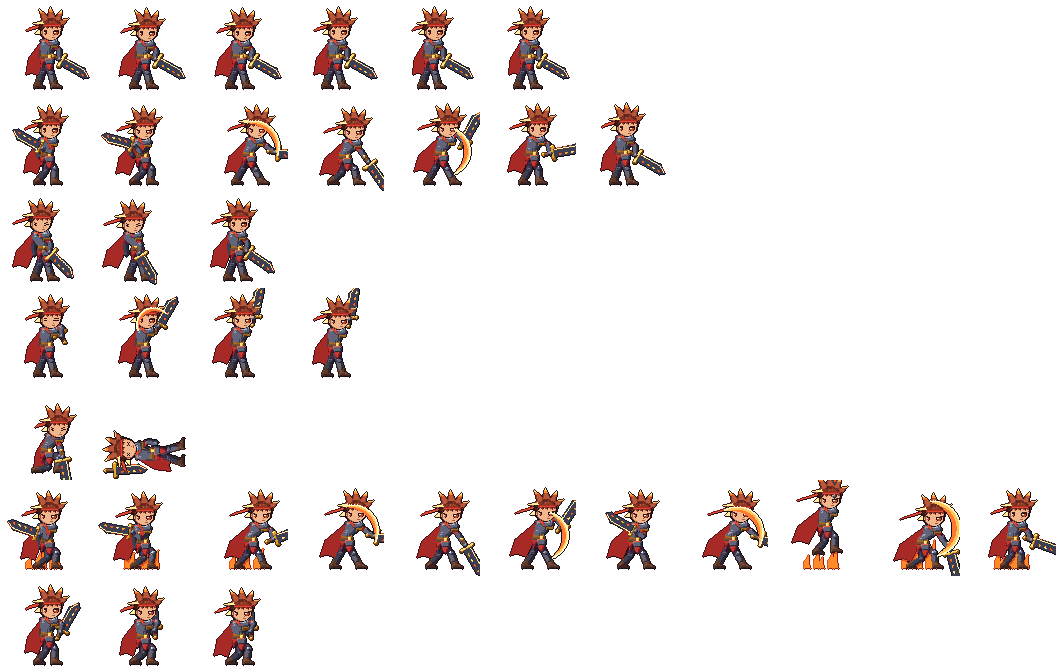
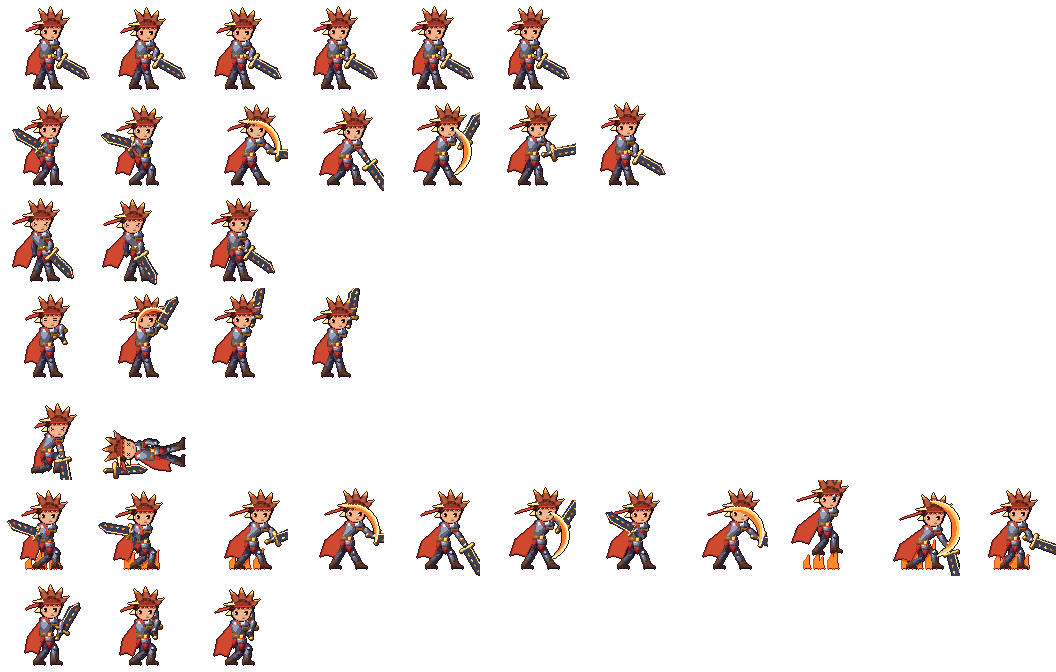
Kael: matching eyes, calmer shaded face, analytic cylinder/sphere form shading
Claude-Session: https://claude.ai/code/session_018FD9XXPN18zgpdgkPrG4jT

diff --git a/tools/art_kael.py b/tools/art_kael.py
@@ -48,42 +48,43 @@ def armour():
 
 
 # ------------------------------------------------------------------ hand-pixelled face (3/4 toward the viewer)
-FACE = [   # headband + bangs + face; chin is row 16, col 12
+FACE = [   # headband + bangs + face; chin is row 16, col 12. Light from the upper left.
     ".ohhhHrrrrrrrrrrrrrrrrrro",
     "ohhhhrRRRRRRRRRRRRRRRRdo.",
     ".ohhhHdHHddHHdddHHdddHHo.",
     "ohhhHoHSHHoSHHoSSHHoSHHo.",
-    ".ohhhoSSSHSSSSHSSSSHSSSo.",
-    "..ohhSSSSSSSSSSSSSSSSSso.",
-    "..ohsSbbbSSSSSSSbbbbbSSo.",
-    "..oKsSeeeSSSSSSeeeeeeSo..",
-    "..oKsSwieSSSSSSewwiieSo..",
-    "..oSsSiieSSSSSSeiiiieSo..",
-    "...osSSeSSSSSSSSeiieSSo..",
-    "...osSSSSSSSSSSsSSSSSo...",
-    "....osSSSSSSSSSSSSSSo....",
-    ".....osSSSSSSSmmmSSo.....",
-    "......ossSSSSSSSSSo......",
-    "........ossSSSSSo........",
+    ".ohhhosssHsssssHssssHsso.",     # the bangs cast a shadow across the forehead
+    "..ohhKKSSSSSSSSSSSSSSSso.",
+    "..ohsKbbbSSSSSSbbbbSSso..",     # brows
+    "..oKsKeeeSSSSSSeeeeSSso..",     # eyes: same design; the near eye shows one more column of white
+    "..oKsSwkeSSSSSSWwkeSso...",
+    "..oSsSikiSSSSSSWikiSso...",
+    "...osSsIsSSSSSSssIsSso...",
+    "...osSSSSSSSSsSSSSSso....",     # nose shade
+    "....osSSSSSSSSssSSSso....",
+    ".....osSSSSSSmmmSSso.....",
+    "......ossSSSSSSSSso......",
+    "........ossssssso........",
     "..........ooooo..........",
 ]
 EXPR = {   # replacement rows 6..10 (brows + eyes)
-    'fierce': ["..ohsbbSSSSSSSSSSSSbbbbo.", "..oKsSbeeSSSSSSeeeebbSo..", "..oKsSwieSSSSSSewwiieSo..",
-               "..oSsSiieSSSSSSeiiiieSo..", "...osSSeSSSSSSSSeiieSSo.."],
-    'closed': ["..ohsSbbbSSSSSSSbbbbbSSo.", "..oKsSSSSSSSSSSSSSSSSSo..", "..oKsSeeeSSSSSSeeeeeeSo..",
-               "..oSsSSSSSSSSSSSSSSSSSo..", "...osSSSSSSSSSSSSSSSSo..."],
-    'hurt': ["..ohsSbSSSSSSSSSSSbbSSSo.", "..oKsSSebSSSSSSSbeSSSSo..", "..oKsSeeSSSSSSSSSSeeeSo..",
-             "..oSsSSebSSSSSSSbeSSSSo..", "...osSSSSSSSSSSSSSSSSo..."],
-    'ko': ["..ohsSSSSSSSSSSSSSSSSSSo.", "..oKsSeSeSSSSSSSeSSeSSo..", "..oKsSSeSSSSSSSSSeeSSSo..",
-           "..oSsSeSeSSSSSSSeSSeSSo..", "...osSSSSSSSSSSSSSSSSo..."],
+    'fierce': ["..ohsKbbSSSSSSSSbbbSSso..", "..oKsKeeeSSSSSSeeeeSSso..", "..oKsSwkeSSSSSSWwkeSso...",
+               "..oSsSikiSSSSSSWikiSso...", "...osSsIsSSSSSSssIsSso..."],
+    'closed': ["..ohsKbbbSSSSSSbbbbSSso..", "..oKsKSSSSSSSSSSSSSSSso..", "..oKsSeeeSSSSSSeeeeSso...",
+               "..oSsSSSSSSSSSSSSSSSso...", "...osSsSsSSSSSSssSsSso..."],
+    'hurt': ["..ohsKbSSSSSSSSSSSbbSso..", "..oKsKeSSSSSSSSSSSeSSso..", "..oKsSSeeSSSSSSSeeSSso...",
+             "..oSsSeSSSSSSSSSSSeSso...", "...osSsSsSSSSSSssSsSso..."],
+    'ko': ["..ohsKSSSSSSSSSSSSSSSso..", "..oKsKeSeSSSSSSSeSeSso...", "..oKsSSeSSSSSSSSSeSSso...",
+           "..oSsSeSeSSSSSSSeSeSso...", "...osSsSsSSSSSSssSsSso..."],
 }
 
 
 def face_pal():
     band = GOLD if FORM == 5 else SCARF
     return {'o': HAIR[0], 'h': HAIR[1], 'H': HAIR[3], 'd': band[1], 'r': band[2], 'R': band[3],
-            's': SKIN[1], 'S': SKIN[3], 'K': SKIN[2], 'b': HAIR[1], 'e': hexc('#241016'),
-            'w': hexc('#fff4e8'), 'i': hexc('#c4471e') if FORM < 5 else hexc('#ff8a2a'), 'm': SKIN[1]}
+            's': SKIN[2], 'S': SKIN[3], 'K': SKIN[4], 'b': HAIR[1], 'e': hexc('#241016'), 'k': hexc('#1a0a10'),
+            'W': hexc('#f4ece4'), 'w': hexc('#ffffff'), 'i': hexc('#b0381c') if FORM < 5 else hexc('#e0601a'),
+            'I': hexc('#ff8a4a') if FORM < 5 else hexc('#ffe07a'), 'm': SKIN[1]}
 
 
 def face_img(expr):

diff --git a/tools/px6.py b/tools/px6.py
@@ -31,11 +31,11 @@ class Ramp:
 
 # material -> shade thresholds (dot(normal, light) -> ramp index 1..n-1; 0 is the line colour)
 MATERIALS = {
-    'cloth': [0.0, 0.45, 0.82],           # broad soft bands
-    'skin': [0.1, 0.5, 0.86],
-    'leather': [0.05, 0.5, 0.85],
-    'hair': [0.1, 0.55, 0.86],
-    'metal': [0.2, 0.55, 0.8, 0.95],      # contrasty + specular band
+    'cloth': [-0.05, 0.4, 0.8],           # shadow side / mid / lit / small highlight
+    'skin': [0.05, 0.45, 0.82],
+    'leather': [0.0, 0.42, 0.8],
+    'hair': [0.05, 0.5, 0.85],
+    'metal': [0.1, 0.45, 0.72, 0.86],     # contrasty + specular band
     'flat': [-2.0],                       # single tone
 }
 
@@ -85,15 +85,24 @@ class Canvas:
             d = _depth(m, 2)
             dot -= (d == 1) * 0.12
         else:
-            cap = cap or max(2, int(_depth(m, 40).max()))   # whole part rounds, not just its rim
-            d = _depth(m, cap) / cap
-            hgt = np.sqrt(np.clip(1 - (1 - d) ** 2, 0, 1)) * cap
-            gy, gx = np.gradient(hgt)
+            # analytic form normals from each row / column span (cylinder or sphere), lit from the upper left
+            nx = np.zeros(m.shape, np.float32)
+            ny = np.zeros(m.shape, np.float32)
+            for y in range(self.h):
+                xs_ = np.nonzero(m[y])[0]
+                if len(xs_):
+                    x0, x1 = xs_.min(), xs_.max()
+                    nx[y, xs_] = (xs_ - x0 + 0.5) / (x1 - x0 + 1) * 2 - 1
+            for x in range(self.w):
+                ys_ = np.nonzero(m[:, x])[0]
+                if len(ys_):
+                    y0, y1 = ys_.min(), ys_.max()
+                    ny[ys_, x] = (ys_ - y0 + 0.5) / (y1 - y0 + 1) * 2 - 1
             if form == 'cyl_v':
-                gy = gy * 0.15
+                ny = ny * 0.25
             elif form == 'cyl_h':
-                gx = gx * 0.15
-            nx, ny, nz = -gx, -gy, np.ones_like(gx) * 0.9
+                nx = nx * 0.25
+            nz = np.sqrt(np.clip(1 - nx * nx - ny * ny, 0.05, 1))
             ln = np.sqrt(nx * nx + ny * ny + nz * nz)
             dot = (nx * LIGHT[0] + ny * LIGHT[1] + nz * LIGHT[2]) / ln
         dot = dot + bias

diff --git a/docs/art/ART-BIBLE.md b/docs/art/ART-BIBLE.md
@@ -22,8 +22,9 @@ Nearest filtering everywhere; integer scales; sprites move in whole native pixel
 **Heroic chibi on a human frame** (owner reference: classic mobile-RPG unit line): ~3 heads tall including
 spiky hair, but a real torso, shoulders, tapered arms/legs and feet. 96px frame: crown ≈ 6, chin 40,
 shoulders 41, hip 60, knee ≈ 73, ankle 85, ground 88. Limbs: thigh 13 / shin 13, upper arm 11 / forearm 9.5.
-**Faces are hand-pixelled** (never procedural shapes): 3/4 toward the viewer, both eyes visible
-(near eye 5 px wide, far eye 3 px), 1px catch-light, brows carry the expression; expressions are row swaps.
+**Faces are hand-pixelled** (never procedural shapes): 3/4 toward the viewer, both eyes use the SAME design
+(3×4 iris + lash; the near eye adds one sclera column), bangs shade the forehead, far jaw/right side in shadow;
+body forms use analytic cylinder/sphere normals lit from the upper left (lit left, shadow right). Expressions are row swaps.
 **Portraits are a separate drawing**: front-facing head-and-shoulders bust, big hand-pixelled anime eyes —
 not the battle pose. Battle sprites face RIGHT in the sheet and are flipped to face the enemies.
 
